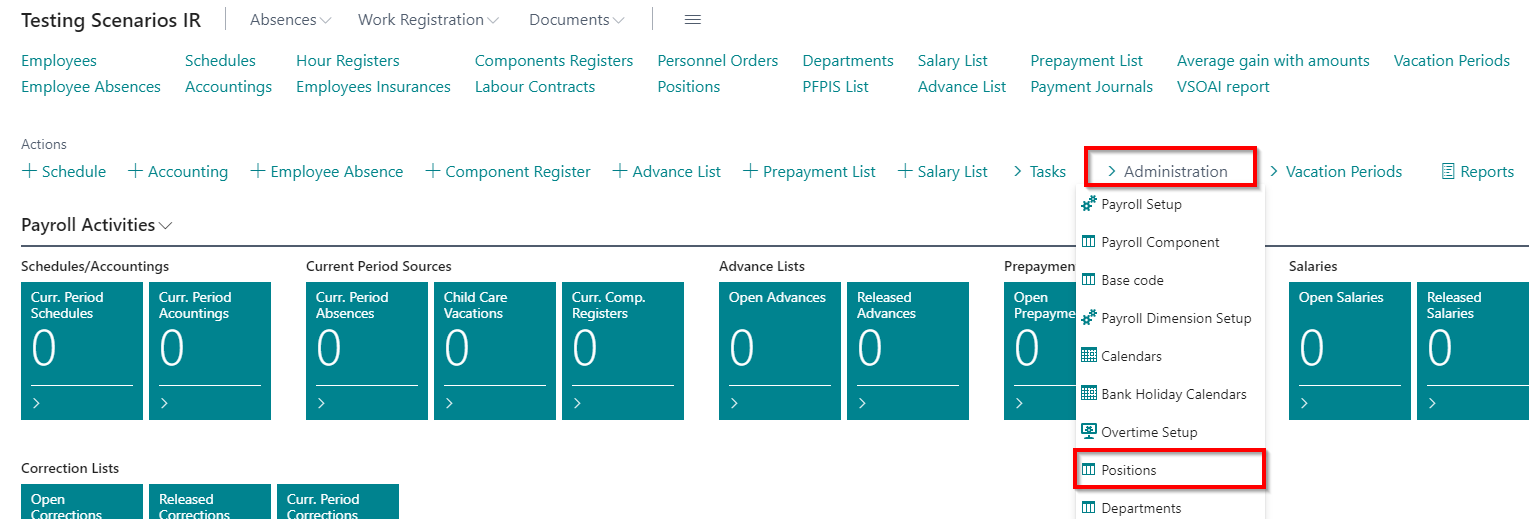
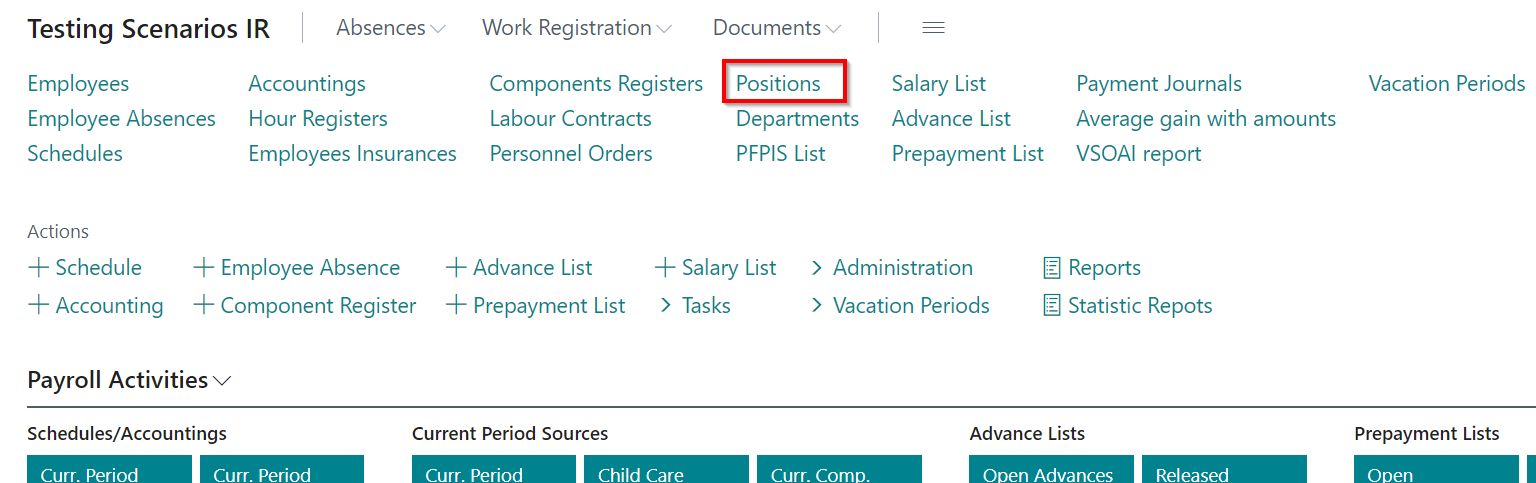
Automated Release en-US

diff --git a/en-US/docs/payroll_extended/usage_scenarios/usage_scenarios.html b/en-US/docs/payroll_extended/usage_scenarios/usage_scenarios.html
@@ -148,7 +148,7 @@ In terms of real life scenarios, please ensure that your master data are configu
 <li><p>Enter the following departments - 00-00, Administration and 10-00, Financial department and 20-00, Sales. Make sure that the Date Created for all department lines are 01.01.2020.
 <img src="3_departments_3.png" alt="alt"></p>
 </li>
-<li><p>Let's create also the positions. In the role center's actions pane tap on <em>Administration</em> and choose <em>Positions</em>.
+<li><p>Let's create also the positions. In the role center's actions pane tap on <em>Positions</em> shortcut.
 <img src="4_positions_1.png" alt="alt"></p>
 </li>
 <li><p>Press <em>New</em> to enter new position card.
@@ -161,7 +161,7 @@ In terms of real life scenarios, please ensure that your master data are configu
 <img src="4_positions_3.1.png" alt="alt">
 by creating the new risk factors:
 <img src="4_positions_3.2.png" alt="alt">
-Type in the first row Code - COMP and description - <em>Work with computer</em> and at the second row type Code -SED and add description - <em>Sedentary work</em>.
+Type in the first row Code - COMP and description - <em>Work with computer</em> and at the second row type Code -SED and add description - <em>Sedentary work</em>. Enter Examination Periodicity - 2Y
 <img src="4_positions_3.3.png" alt="alt">
 Then attach both risks to the position in separate rows and close the position's card:
 <img src="4_positions_3.4.png" alt="alt"></p>
@@ -182,7 +182,7 @@ Then attach both risks to the position in separate rows and close the position's
 <li><p>In the <em>General</em> tab enter First name - Elizabeth. Enter Last name - Brooks. Select a <em>Female</em> from the gender list. And move to the next tab.
 <img src="2_new_employee_3.png" alt="alt"></p>
 </li>
-<li><p>In the <em>Address&amp;Contact</em> tab enter the Address - Liberty street 10-28. Enter Post code - LV-1001, and by entering this field, the fields <em>City</em> and <em>Country</em> will be filled in automatically. Move to the next tab.
+<li><p>In the <em>Address&amp;Contact</em> tab enter the Address - Liberty street 10-28. Enter Post code - LV-1001, and by entering this field, the fields <em>City</em> and <em>Country</em> will be filled in automatically. Check if field <em>City</em> includes value <em>Rīga</em> and field <em>Country</em> includes <em>LV</em>. Move to the next tab.
 <img src="2_new_employee_4.png" alt="alt"></p>
 </li>
 <li><p>In the <em>Personal</em> tab enter Birth Date - 04.02.1988. Enter Social security No.- 040288-11009 (first part of this number will be created automatically from the field <em>Birth Date</em>). Enter Previous Social Security No - 040288-11009. Check if Residence is <em>Resident</em>, if fills in automatically by default. Move to the next tab.</p>
@@ -201,7 +201,7 @@ Then attach both risks to the position in separate rows and close the position's
 </ol>
 <p><img src="2_new_employee_9.png" alt="alt"></p>
 <ol start="17">
-<li>In the <em>Personal</em> tab enter Birth Date - 24.06.1978. Enter Social security No.- 240678-12034. Enter Previous Social Security No - 240678-12034. Check if Residence is <em>Resident</em>. In the <em>Payments</em> tab select from the list Employee Posting Group - ADMIN. Enter IBAN- LV77HABA0551002016716. Select from the list SWIFT Code - HABALV22. In the <em>Payroll</em> tab select from the list Social Status Code - DN.</li>
+<li>In the <em>Personal</em> tab enter Birth Date - 24.06.1978. Enter Social security No.- 240678-12034. Check if Residence is <em>Resident</em>. In the <em>Payments</em> tab select from the list Employee Posting Group - ADMIN. Enter IBAN- LV77HABA0551002016716. Select from the list SWIFT Code - HABALV22. In the <em>Payroll</em> tab select from the list Social Status Code - DN.</li>
 </ol>
 <p><img src="2_new_employee_10.png" alt="alt"></p>
 <ol start="18">
@@ -211,7 +211,7 @@ Then attach both risks to the position in separate rows and close the position's
 <li><p>In order to create a new Labor Contract, press <em>New</em> and Labour Contract Card will opens
 <img src="5_hiring_2.png" alt="alt"></p>
 </li>
-<li><p>Enter Posting Date - 01.08.2020., choose - Elizbeth Brooks from the list of employees, enter Employment date - 01.08.2020., choose Position Code - Chief Accountant, set the social sign code - 11, leave enabled the Primary Position and set the Salary type - 5 Day Work Week, leave the Loading - 1,00 and choose the Calendar code - 5 DD. Enable the Test Period function and Test Period End date will appear in the next field. Leave Post Order with LC enabled. make sure, that Social Status Code is - DN and leave enabled Create Tax Components.
+<li><p>Labour Contract Number will fill in automatically from <em>No. Series</em> setup. Enter Posting Date - 01.08.2020., choose - Elizbeth Brooks from the list of employees, enter Employment date - 01.08.2020., choose Position Code - Chief Accountant, set the social sign code - 11, leave enabled the Primary Position and set the Salary type - 5 Day Work Week, leave the Loading - 1,00 and choose the Calendar code - 5 DD. Enable the Test Period function and Test Period End date will appear in the next field. Leave Post Order with LC enabled. make sure, that Social Status Code is - DN and leave enabled Create Tax Components.
 <img src="5_hiring_4.png" alt="alt"></p>
 </li>
 <li><p>Now the salary needs to be assigned to employee. Click on <em>Process - Payroll Components</em> and component register will opens.
@@ -221,7 +221,7 @@ Then attach both risks to the position in separate rows and close the position's
 <p>Choose payroll component Code - 101 and enter the salary Amount - 2000,00. Close the Labour Contract Payroll Components window.
 <img src="5_hiring_3.2.png" alt="alt"></p>
 <ol start="22">
-<li><p>Set the status to Completed and post the card
+<li><p>Set the status to Completed and post the Labor Contract card
 <img src="5_hiring_3.png" alt="alt"></p>
 </li>
 <li><p>Open the new Labour contract card to hire also James Smith.
@@ -233,7 +233,7 @@ Then attach both risks to the position in separate rows and close the position's
 <li><p>Open <em>Payroll Components</em> and enter Code - 101 and Amount - 1500,00.
 <img src="5_hiring_6.png" alt="alt"></p>
 </li>
-<li><p>Set the status to Completed and post the card
+<li><p>Set the status to Completed and post the Labor Contract card
 <img src="5_hiring_6.1.png" alt="alt"></p>
 </li>
 <li><p>Go to list <em>Employees</em> and check the results. Elizbeth now have a Employment day entry, Test Period end date and position line.
@@ -243,15 +243,16 @@ Then attach both risks to the position in separate rows and close the position's
 <p>And additionally by pressing Process- Employee Payroll Components, now all payroll components are attached, including salary
 <img src="5_hiring_7.1.png" alt="alt"></p>
 <ol start="28">
-<li><p>Place a tick in the Schedule field for both employees at Employee Positions tab to be able to calculate the salary
+<li><p>Check if a field <em>Schedule</em> is enabled for both employees at <em>Employee Positions</em> tab to be able to calculate the salary
 <img src="5_hiring_8.1.png" alt="alt"></p>
 </li>
-<li><p>Now issue the referrals to mandatory health examination to both new employees. Type in system's search function <em>Health Examination Journal</em> and select it from the list
-<img src="5_hiring_8.png" alt="alt"></p>
+<li><p>Now issue the referrals to mandatory health examination to both new employees. Type in system's search function <em>Health Examination Journal</em> and select it from the list</p>
 </li>
-<li><p>A journal will opens with two lines regards to both employees to what have been assigned the positions with risk factors. Make the printouts by pressing <em>Reports-Print Document</em>
-<img src="5_hiring_9.1.png" alt="alt"></p>
-</li>
+</ol>
+<p><img src="5_hiring_8.png" alt="alt"></p>
+<ol start="30">
+<li>A journal will opens with two lines regards to both employees to what have been assigned the positions with risk factors. Make the printouts by pressing <em>Reports-Print Document</em> Without using any print filters system will issue printout for both employees. In case if there will be made some printout previously, system will gives a warning that printout was made previously.
+<img src="5_hiring_9.1.png" alt="alt"></li>
 </ol>
 <p>No additional filters are necessary for the printouts, just press <em>Print</em> and check the printouts
 <img src="5_hiring_9.png" alt="alt"></p>
@@ -389,7 +390,7 @@ Then attach both risks to the position in separate rows and close the position's
 <p><strong>About this walkthrough:</strong> This walkthrough demonstrates how to perform advance payments and prepayments, how to terminate the employee, and how to use Hour register.</p>
 <p><strong>Roles:</strong> use <em>LV Payroll</em></p>
 <p><strong>Story:</strong> You are Elizabeth Brooks, a chief accountant of the sales company. Your responsibilities also include payroll. Your task is to pay salary advances, pay vacation pays before the vacation, get deal with final calculation till 25.09.2020. and payout to employee James Smith. And at the end of the month, perform payroll calculation, payout and posting.</p>
-<p><strong>Pre-requisites:</strong> In the <em>Company Information</em> setup must be entered data in the fields Name, Registration No., VAT Registration No. In <em>Bank Accounts</em> setup, enter the SWIFT code and IBAN to the bank account card, what is used for payroll.</p>
+<p><strong>Pre-requisites:</strong> No special pre-requisites are required.</p>
 <p><strong>Steps:</strong></p>
 <ol>
 <li><p>Both employees have applied for a salary advance payment. Yo need to register advances in the employee's card Payroll Components. Open <em>Employees</em> list and tap on Elizabeth's employee card. Click <em>Process - Employee Payroll Components</em>. For Payroll component No 737 add <em>Date From</em> - 01.09.2020 and <em>Amount</em> - 200.00. Add the same data also for James Smith.
@@ -419,8 +420,10 @@ Then attach both risks to the position in separate rows and close the position's
 <li><p>Tap on the buttons <em>Post/Print</em> and <em>Payroll Paym. Group. Posting</em> to post the payment journal to General Ledger
 <img src="9_advance_8.png" alt="alt"></p>
 </li>
-<li><p>Click <em>OK</em> to confirm the process of posting is done. By this an advances payout process is done because Advance lists do not need to be posted. Close the Payment Journal and close the Advance Header.
+<li><p>Click <em>OK</em> to confirm the process of posting is done.
 <img src="9_advance_9.png" alt="alt"></p>
+</li>
+<li><p>By this an advances payout process is done because Advance lists do not need to be posted. Close the Payment Journal and close the Advance Header.</p>
 </li>
 <li><p>Employee Elizabeth Brooks has applied for vacation and wants to receive a vacation pay before the vacation begins. Let's start with the registration of the absence. According to the internal rules of the company, every absence should be registered with Personnel order. Click on <em>Personnel Orders</em> in Role center.
 <img src="10_absence2_1.png" alt="alt"></p>
@@ -497,7 +500,7 @@ Then attach both risks to the position in separate rows and close the position's
 </ol>
 <p>... the same will be done with the Employee Payroll components
 <img src="11_termination_5.png" alt="alt"></p>
-<ol start="35">
+<ol start="36">
 <li><p>Prior to final calculation, Schedule and Accounting tables need to be updated with James' working hours. Go to <em>Schedules</em>, tap on Septembers 2020 Schedule card and clicking on <em>Process - Create Lines</em>, choose James in Employees filter and confirm with <em>OK</em>.</p>
 </li>
 <li><p>Go to <em>Accountings</em>, tap on Septembers 2020 Accounting card and clicking on <em>Process - Create Lines</em>, choose James in Employees filter and confirm with <em>OK</em>.</p>
@@ -569,7 +572,7 @@ Then attach both risks to the position in separate rows and close the position's
 <li><p>Click <em>OK</em> to confirm the generation process is done.
 <img src="14_salary_4.png" alt="alt"></p>
 </li>
-<li><p>Payment Journal will open. Select both lines and press the buttons <em>Bank</em> <img src="count1.png" alt="alt"> and <em>Export Payroll Payment</em> <img src="count2.png" alt="alt">. Click <em>OK</em> <img src="count3.png" alt="alt"> to confirm the file preparation process is done. The file now is saved in your downloads and is available for upload to bank systems.
+<li><p>Payment Journal will open. Select the line and press the buttons <em>Bank</em> <img src="count1.png" alt="alt"> and <em>Export Payroll Payment</em> <img src="count2.png" alt="alt">. Click <em>OK</em> <img src="count3.png" alt="alt"> to confirm the file preparation process is done. The file now is saved in your downloads and is available for upload to bank systems.
 <img src="14_salary_5.png" alt="alt"></p>
 </li>
 <li><p>Tap on the buttons <em>Post/Print</em> <img src="count1.png" alt="alt"> and <em>Payroll Paym. Group. Posting</em> <img src="count2.png" alt="alt"> to post the payment journal to General Ledger. Click <em>OK</em> <img src="count3.png" alt="alt"> to confirm the process of posting is done.

diff --git a/en-US/docs/payroll_extended/setup_ext/13.2.5darbs.html b/en-US/docs/payroll_extended/setup_ext/13.2.5darbs.html
@@ -79,33 +79,32 @@
             <article class="content wrap" id="_content" data-uid="">
 <h1 id="work-5">Work-5</h1>
 
-<p>Re;ort is located at: Role Center - <em>Statistical reports</em> – <em>Work-5</em>.</p>
-<p>Atskaites parametros jānorāda sekojoša informācija:</p>
+<p>Report is located at: Role Center - <em>Statistical reports</em> – <em>Work-5</em>.</p>
+<p>Report setup should include the following information:</p>
 <ul>
-<li>Datums no – perioda sākums;</li>
-<li>Datums līdz – perioda beigas;</li>
-<li>Bruto darba samaksas bāzes kods – jānorāda bāze, kādas algas komponentes jāiekļauj atskaitē;</li>
-<li>Bruto darba samaksas bāzes kods ar nered. Izm. – jānorāda bāze, kādas komponentes jāiekļauj atskaitē;</li>
-<li>Virsstundu bāzes kods – jānorāda bāze, kādas algas komponentes raksturo virsstundas. No algu aprēķiniem tiks paņemta gan summa, gan stundas;</li>
-<li>Piemaksas bāzes kods – jānorāda bāze, kādas algas komponentes tiks  apkopotas kolonnā <em>Piemaksas</em>;</li>
-<li>Slimības naudas bāzes kods – jānorāda bāze, kādas algas komponentes raksturo slimības naudas aprēķinu;</li>
-<li>Prombūtnes koda filtrs – jānorāda prombūtnes iemesli, kuri samazina mēnešu skaitu, par kuriem tiek aprēķināta alga.</li>
+<li>Start Date – start of period;</li>
+<li>End Date – the end of the period;</li>
+<li>Salary Base Code – identify the base, what payroll components should be included in the report;</li>
+<li>Overtime Base Code – identify the base, what payroll components relates to overtime. Both the sum and hours will be picked up from salary calculations;</li>
+<li>Premium Base Code – identify the base, what payroll components will be summarized in the column <em>Premium</em>;</li>
+<li>Sick Pay Base Code – identify the base, what payroll components are related to the calculation of the sick leave;</li>
+<li>Absence Code Filter – identify the case of absence codes, what reduces the number of months for which salary is calculated.</li>
 <li></li>
 </ul>
-<p><strong>Jāpievērš uzmanība:</strong></p>
+<p><strong>Should pay attention to:</strong></p>
 <ul>
-<li>Kolonnā <em>Dzimums</em>: <em>1</em> – sieviete,  <em>2</em> – vīrietis,  <em>0</em> – nav norādīts dzimums;</li>
-<li>Dzimšanas datums – darbinieka karte, lauks Dzimšanas datums;</li>
-<li>Izglītība – darbinieka kvalifikācija, lauks Līmenis. Tiks ņemts ieraksts, kuram ir ielikts ķeksis <em>Aktuālā informācija</em>;</li>
-<li>Profesijas kods – uz perioda beigām spēkā esošais kods;</li>
-<li>Slodze – uz perioda beigām spēkā esoša slodze;</li>
-<li>Darba vai uzņēmuma līgums: <em>1</em>  - nav ielikts ķeksis Uzņēmuma līgums, <em>2</em> – ir ielikts ķeksis Uzņēmuma līgums;</li>
-<li>Nostrādāto pilno gadu skaits – nav apaļošanas, tikai pilnie gadi saskaņā ar 5-Darbs prasībām;</li>
-<li>Visas summas tiks apkopotas pēc aprēķina datuma;</li>
-<li>Pastāv iespēja izvēlēties konkrētu struktūrvienību;
-Lai izslēgtu darbiniekus, kuri pieņemti pēc <em>Līdz datumam</em>, jāieliek atbilstošs filtrs (piemēram, <em>&lt;&gt;&quot;|..31.10.20</em>)</li>
+<li>Gender - <em>1</em> for female,  <em>2</em> for male,  <em>0</em> gender not specified;</li>
+<li>Birth Date – field <em>Birth Date</em> form employee's card;</li>
+<li>Education – qualification of employee, field Level;</li>
+<li>statistic Group code – code valid for the end of the period;</li>
+<li>Loading – loading valid for the end of the period;</li>
+<li>Company contract: <em>1</em>  - for employment contract, <em>2</em> – for company contract;</li>
+<li>Employment Years – only full years, according to Work-5 rules;</li>
+<li>All amounts will be summarized by the calculation date;</li>
+<li>There is a possibility to choose a specific department;
+To exclude employees, what are employed after <em>End Date</em>, an appropriate filter should be applied (for example, <em>&lt;&gt;&quot;|..31.10.20</em>)</li>
 </ul>
-<p><strong>!!! Atvaļinājuma dienas netiek apstrādātas, jo pēc statistikas pārvaldes skaidrojumiem ( telefoniski), viņi grib redzēt vai 0 ( ja darbinieks nostrādājis mazāk par 6 mēnešiem) vai 20 (ja nostrādājis visu gadu). Ņemot vērā, ka tas iet kopā ar DL, tas nav tiek realizēts.</strong></p>
+<p><strong>!!! Vacation days are not processed, because reported should be only either 0 days (in case if employee haven't been worked at lease 6 months) or either 20 days (if employee have worked full year).</strong></p>
 </article>
           </div>
           

diff --git a/en-US/docs/payroll_extended/setup_ext/14.1.pfpis.html b/en-US/docs/payroll_extended/setup_ext/14.1.pfpis.html
@@ -5,9 +5,9 @@
   <head>
     <meta charset="utf-8">
     <meta http-equiv="X-UA-Compatible" content="IE=edge,chrome=1">
-    <title>PFPIS dokumenta veido&#353;ana | Latvian Payroll </title>
+    <title>Creating PFPIS List | Latvian Payroll </title>
     <meta name="viewport" content="width=device-width">
-    <meta name="title" content="PFPIS dokumenta veido&#353;ana | Latvian Payroll ">
+    <meta name="title" content="Creating PFPIS List | Latvian Payroll ">
     <meta name="generator" content="docfx 2.57.2.0">
     
     <link rel="shortcut icon" href="../../../favicon.ico">
@@ -77,39 +77,34 @@
         <div class="article row grid-right">
           <div class="col-md-10">
             <article class="content wrap" id="_content" data-uid="">
-<h1 id="pfpis-dokumenta-veidošana">PFPIS dokumenta veidošana</h1>
+<h1 id="creating-pfpis-list">Creating PFPIS List</h1>
 
-<p>Lai izveidotu paziņojumu par fiziskajām personām izmaksātajām summām, jāveido jauns dokuments-buferis funkcijā <em>PFPIS saraksts</em>, uz kuru saīsne pieejama no algu Lomu centra.</p>
-<p>PFPIS buferis sastāv no 3 daļām:</p>
-<p><strong>Visp. informācija</strong></p>
-<p><strong>Kopsummas</strong></p>
-<p><strong>PFPIS rindu apakšforma</strong></p>
-<p>Virsrakstā tiek norādīta vienam buferim kopīgā informācija, bet katrā rindā tiek norādīta vienam darbiniekam atbilstoša informācija. Virsraksts satur sekojošu informāciju:</p>
-<p><strong>Visp. info</strong></p>
+<p>To create a report for the amounts disbursed to the notice of a natural person (PFPIS List), need to be created a new buffer in <em>PFPIS List</em>, what is available from Role Center's shortcuts.</p>
+<p><strong>General Info</strong></p>
 <ul>
-<li>Nr. – PFPIS dokumenta numurs;</li>
-<li>Kods – uzņēmuma reģistrācijas Nr.;</li>
-<li>Apraksts – dokumenta apraksts;</li>
-<li>Gads – bufera veidošanas gads;</li>
-<li>Mēnesis – bufera veidošanas mēnesis;</li>
-<li>Noslēgts – pazīme, ka buferis ir noslēgts;</li>
-<li>Izpildītājs – atbildīgās personas vārds un uzvārds;</li>
-<li>Izpildītāja tālruņa nr. – atbildīgās personas tālruņa nr.</li>
+<li>No. – PFPIS document number;</li>
+<li>Code – Company Registration No.;</li>
+<li>Description – document description;</li>
+<li>Year – Buffer issuing year;</li>
+<li>Month – Buffer issuing month;</li>
+<li>Closed – a sign that the buffer is closed;</li>
+<li>Responsible Person – Name and surname of responsible person;</li>
+<li>Phone No. – Phone number of Responsible Person</li>
 </ul>
-<p><strong>Kopsummas</strong></p>
+<p><strong>Totals</strong></p>
 <ul>
-<li>R05..R16 – bufera rindu vērtību lauku kopsummas.</li>
+<li>R05..R16 – Buffer line value totals.</li>
 </ul>
-<p><strong>PFPIS bufera rindu apakšforma</strong></p>
+<p><strong>PFPIS Line ListPart</strong></p>
 <ul>
-<li>Darbinieka Nr. – Navision darbinieka Nr. (neobligāts);</li>
-<li>Kods – darbinieka personas kods;</li>
-<li>mNosaukums – darbinieka vārds un uzvārds;</li>
-<li>Ienākuma kods – no ienākumu veidu klasifikatora;</li>
-<li>Ienākuma veids – no ienākumu veidu klasifikatora nosaukums;</li>
-<li>Periods no – periods, no kura gūti konkrētie ienākumi;</li>
-<li>Periods līdz – periods, līdz kuram gūti konkrētie ienākumi;</li>
-<li>Ienākuma izmaksas datums – datums, kad izmaksāti ienākumi;</li>
+<li>Employee No. – employee number from the system. (not mandatory);</li>
+<li>Code – employee personal code;</li>
+<li>Name – name and surname of the employee;</li>
+<li>Income Type – no ienākumu veidu klasifikatora;</li>
+<li>Income Description – no ienākumu veidu klasifikatora nosaukums;</li>
+<li>Period From – periods, no kura gūti konkrētie ienākumi;</li>
+<li>Period To – periods, līdz kuram gūti konkrētie ienākumi;</li>
+<li>Income Payment Date – datums, kad izmaksāti ienākumi;</li>
 <li>R05..R16 – PFPIS atskaitei atbilstošās summas;</li>
 <li>R09a – atvieglojumu kods no klasifikatora.</li>
 </ul>

diff --git a/en-US/docs/payroll_extended/setup_ext/14.payroll_analysis.html b/en-US/docs/payroll_extended/setup_ext/14.payroll_analysis.html
@@ -5,9 +5,9 @@
   <head>
     <meta charset="utf-8">
     <meta http-equiv="X-UA-Compatible" content="IE=edge,chrome=1">
-    <title>Algas atskaites | Latvian Payroll </title>
+    <title>Salary Reports | Latvian Payroll </title>
     <meta name="viewport" content="width=device-width">
-    <meta name="title" content="Algas atskaites | Latvian Payroll ">
+    <meta name="title" content="Salary Reports | Latvian Payroll ">
     <meta name="generator" content="docfx 2.57.2.0">
     
     <link rel="shortcut icon" href="../../../favicon.ico">
@@ -77,27 +77,26 @@
         <div class="article row grid-right">
           <div class="col-md-10">
             <article class="content wrap" id="_content" data-uid="">
-<h1 id="algas-atskaites">Algas atskaites</h1>
+<h1 id="salary-reports">Salary Reports</h1>
 
-<p>Programma nodrošina visu Latvijas likumdošanā noteikto obligāto atskaišu sagatavošanu un eksportēšanu uz EDS. Tādas kā:</p>
+<p>The system ensures the preparation and export of all mandatory reports specified in Latvian legislation to the EDS. Such as:</p>
 <ul>
-<li>Ziņojums par VSAOI;</li>
-<li>Ziņas par darba ņēmējiem;</li>
-<li>Paziņojums par algas nodokli (kopsavilkums un atsevišķi pa darbinieku);</li>
-<li>Paziņojums par izmaksātiem ienākumiem nerezidentiem;</li>
-<li>Paziņojums par fiziskām personām izmaksātiem ienākumiem.</li>
+<li>VSAOI report;</li>
+<li>Employee Social Sign code;</li>
+<li>Employee social contribution card (Summary and separate by employee);</li>
+<li>The amounts disbursed to the notice of a non-resident (IINNR List);</li>
+<li>The amounts disbursed to the notice of a natural person (PFPIS List).</li>
 </ul>
-<p>Kā arī iespējams izdrukāt atskaites iekšējai lietošanai, tādas kā:</p>
+<p>As well as possible to print reports for internal use, such as:</p>
 <ul>
-<li>Statistika 2-Darbs;</li>
-<li>Algu saraksts;</li>
-<li>Izmaksa uz banku/kasi;</li>
-<li>Vidējās izpeļņas aprēķina atskaite;</li>
-<li>Personīgais konts;</li>
-<li>Uzkrātā atvaļinājuma aprēķina atskaite;</li>
-<li>Algas lapiņas izdruka;</li>
-<li>Algas komponenšu kopsummas;</li>
-<li>Darbinieku AK pa mēnešiem.</li>
+<li>Salary List;</li>
+<li>Salary Printout;</li>
+<li>Average Gain Per Employee;</li>
+<li>Personal Accounts;</li>
+<li>Average Gain With amounts;</li>
+<li>Pay Slip;</li>
+<li>Payroll Component Tools;</li>
+<li>Empl. Payroll Comp. by Month.</li>
 </ul>
 </article>
           </div>

diff --git a/en-US/docs/payroll_extended/toc.html b/en-US/docs/payroll_extended/toc.html
@@ -217,11 +217,11 @@
                 </li>
                 <li>
                     <span class="expand-stub"></span>
-                    <a href="setup_ext/14.payroll_analysis.html" name="" title="Algas atskaites">Algas atskaites</a>
+                    <a href="setup_ext/14.payroll_analysis.html" name="" title="Salary Reports">Salary Reports</a>
                     
                     <ul class="nav level2">
                           <li>
-                              <a href="setup_ext/14.1.pfpis.html" name="" title="PFPIS dokumenta veido&#353;ana">PFPIS dokumenta veido&#353;ana</a>
+                              <a href="setup_ext/14.1.pfpis.html" name="" title="Creating PFPIS List">Creating PFPIS List</a>
                           </li>
                     </ul>
                 </li>
